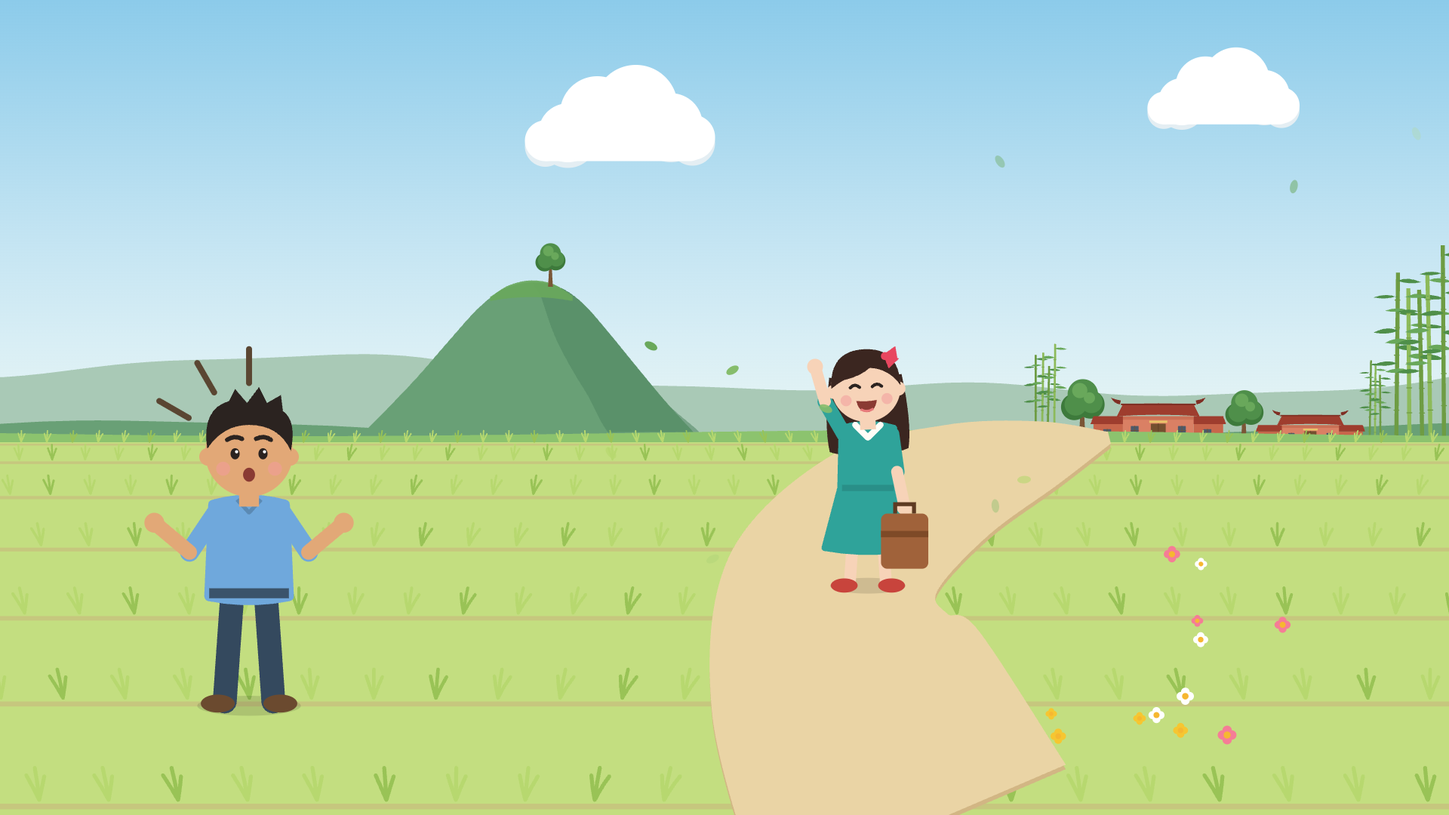
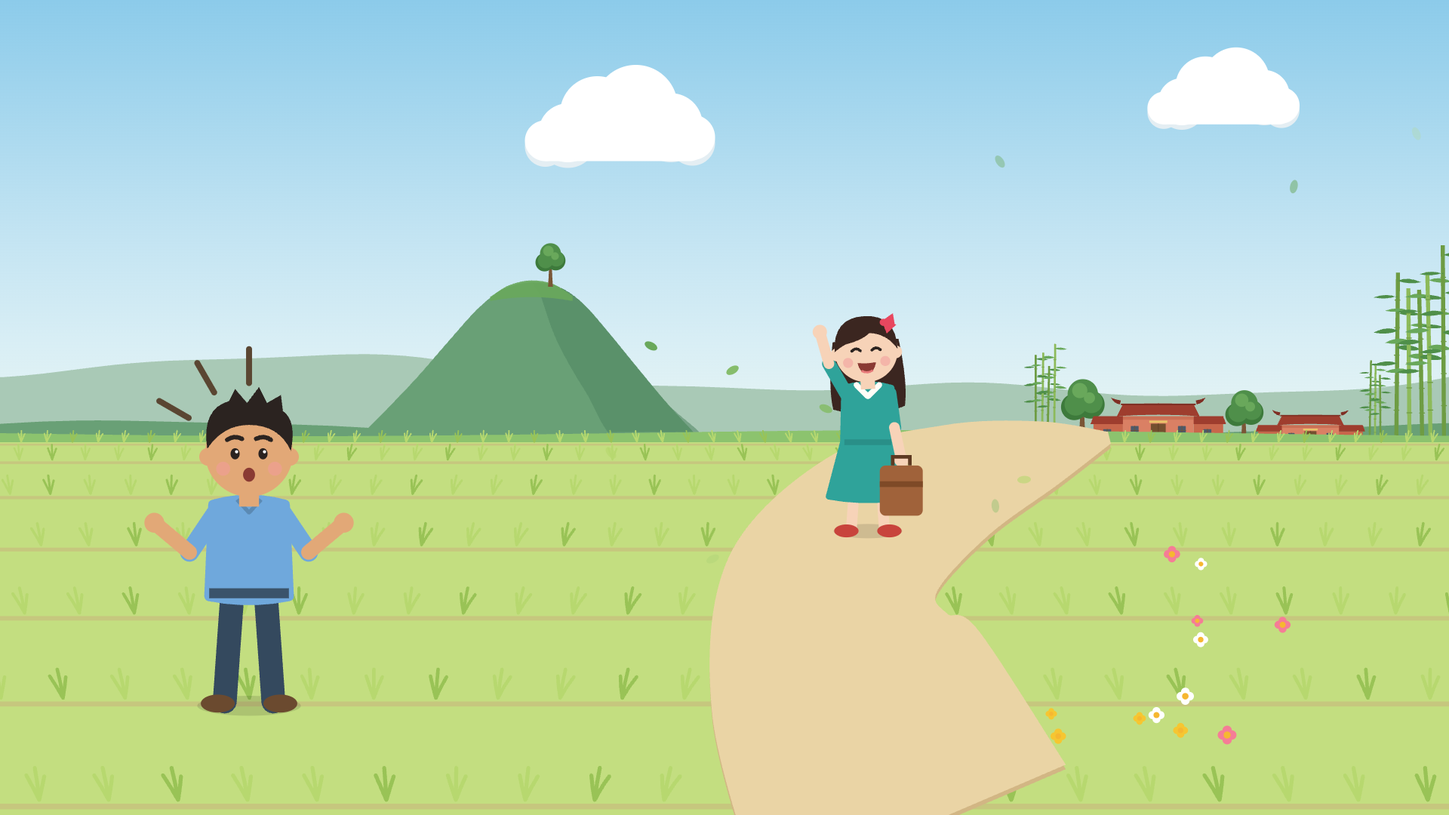
Break story lines after punctuation and keep words whole; raise Aqing in c2b

Changed region(s): [[0.5625, 0.3667, 0.6562, 0.7333]]

diff --git a/index.html b/index.html
@@ -105,7 +105,7 @@ body{overflow:hidden;touch-action:manipulation}
 <div id="bar"></div>
 <div id="black"></div>
 <noscript><div style="color:#FFF8EC;padding:24px;font-size:20px;line-height:1.8;position:relative;z-index:30;background:#1B1714"><h1>《讓生命乘著歌聲，綻放成一道彩虹》</h1><p>山腳下有一座小村莊，住著一位大家都叫他「黑狗兄」的男子。他熱心、愛笑，也愛唱歌，常和三位好友跑到山頂，對著山谷唱得忘了時間。</p><p>黑狗兄一直有個願望：「哪一天，我們要辦一場音樂會，讓整個村莊的人都來唱歌！」好友們笑著答應，四個人的聲音，就這樣帶著夢想飄下山。</p><h2>第一首〈山頂的黑狗兄〉四重唱</h2><p>這一天，黑狗兄沿著鄉間小路回家，忽然看見一個熟悉的身影。</p><p>那是多年不見的阿晴。她曾離開家鄉，到外地學音樂，如今提著行李，回到了這條從小走到大的路。</p><p>兩人並肩走過田野，聊起童年的往事。當阿晴聽見黑狗兄想辦音樂會，眼睛立刻亮了起來：「這麼好的事，怎麼可以少了我？」</p><h2>第二首〈鄉間小路〉合唱</h2><p>隔天，黑狗兄穿著一件黃襯衫，來到村口等阿晴。</p><p>阿晴一看便笑了：「這件衣服，你還留著呀？」</p><p>那是她離鄉前送給他的禮物。黑狗兄抓抓頭，害羞地說：「我一直想穿著它，唱歌給妳聽。」</p><p>朋友們聽見了，立刻敲起鼓來起鬨。黑狗兄紅著臉，跟著節奏踏步、擺動，阿晴也加入其中。兩人多年沒說出口的心意，都藏在這場熱鬧的鼓聲裡。</p><h2>第三首〈情人的黃襯衫〉非洲鼓＋擊鼓有氧</h2><p>有了阿晴的支持，黑狗兄終於決定把夢想付諸行動。</p><p>阿晴牽起他的手，說：「請跟我來，我知道一個好地方。」</p><p>她帶大家來到村裡的老學堂。這裡有寬敞的庭院，還有一棵能替人遮蔭的大樹，正適合練唱。</p><p>他們挨家挨戶邀請鄰居。起初，有人說自己唱不好，有人害羞得不敢進門；但聽著屋裡傳出的歌聲，大家漸漸走了進來，空蕩蕩的學堂也重新熱鬧起來。</p><h2>第四首〈請跟我來〉合唱</h2><p>學堂外有一片多年沒人照顧的玫瑰花圃。大家練唱之餘，也一起除草、澆水，想讓來看音樂會的人，一進門就看見花。</p><p>第一朵玫瑰綻放時，阿晴高興地喊來所有人。孩子們圍著花圃跳舞，大人們敲鼓、踏步，連平常最安靜的鄰居都跟著伸手、轉身。</p><p>黑狗兄望著笑得燦爛的阿晴，悄悄摘下一朵玫瑰，別在自己的黃襯衫上：「演出那天，我就戴著它上台。」</p><h2>第五首〈可愛的玫瑰花〉非洲鼓＋擊鼓有氧</h2><p>可是，音樂會前夕，一場大雨打亂了所有準備。庭院積了水，布置好的舞台也被風吹倒。</p><p>黑狗兄看著滿地狼藉，難過地說：「忙了這麼久，還是辦不成嗎？」</p><p>阿晴沒有回答，只先扶起一張倒下的椅子。接著，三位好友來了，鄰居也帶著工具來了。有人修舞台，有人清掃，有人替大家準備熱茶。</p><p>熟悉的歌聲再次響起。黑狗兄捲起袖子，走進人群，和大家一起把夢想重新扶了起來。</p><h2>第六首〈追夢人〉合唱</h2><p>音樂會當天，雨終於停了。</p><p>老學堂掛上彩帶，玫瑰花圃旁排滿椅子。村民帶著家人陸續入座，台上的每一個人，都能在台下找到熟悉的笑臉。</p><p>黑狗兄穿著黃襯衫，胸前別著那朵玫瑰。他站在阿晴身旁，小聲說：「以後每一場音樂會，妳都陪我，好嗎？」</p><p>阿晴笑著點頭。掌聲響起，大家一起唱出了這段日子裡，親手忙出來的幸福。</p><h2>第七首〈幸福進行曲〉合唱</h2><p>最後一首曲子開始前，一個孩子指著天空大喊：「彩虹！」</p><p>大家抬起頭，看見一道彩虹跨過山頂，正是黑狗兄和好友們最初唱歌的地方。</p><p>鼓聲響起，台上的人踏著節奏揮動雙手，台下的觀眾也站起來加入。黑狗兄牽著阿晴，和全村的人一起跳躍、歡笑。</p><p>從山頂的一個願望，到今天滿院子的歌聲，他們終於完成了那場音樂會。</p><p>而彩虹下，已經有人開始問：「明年，我們還要唱什麼歌？」</p><h2>第八首〈飛躍的彩虹〉非洲鼓＋擊鼓有氧</h2></div></noscript>
-<script id="data" type="application/json">{"pages":[{"id":"cover","k":"cover","img":"cover","alt":"彩虹跨過山頂，山腳下有紅磚三合院和稻田，音符從村莊飄向天空。","title":"《讓生命乘著歌聲，綻放成一道彩虹》","credits":["115年臺中市大人讀冊吧－銀向學習計畫之創齡無極限方案","《鼓動青春．樂齡飛揚》聲聲飛揚－動聲合唱課程","114–116 年朝陽科大USR計畫　北溝富麗 文化生態共榮村"]},{"id":"c1a","k":"story","img":"c1a","alt":"山腳下的小村莊；遠遠的山頂上，四個好友對著山谷唱歌。","lines":["山腳下有一座小村莊，住著一位大家都叫他","「黑狗兄」的男子。他熱心、愛笑，也愛唱歌，常","和三位好友跑到山頂，對著山谷唱得忘了時間。"],"text":"山腳下有一座小村莊，住著一位大家都叫他「黑狗兄」的男子。他熱心、愛笑，也愛唱歌，常和三位好友跑到山頂，對著山谷唱得忘了時間。","tag":"1／8〈山頂的黑狗兄〉","box":[112,703,1696,349]},{"id":"c1b","k":"story","img":"c1b","alt":"夕陽下，黑狗兄和三位好友站在山頂唱歌，音符飄向山下的村莊。","lines":["黑狗兄一直有個願望：「哪一天，我們要辦一場音","樂會，讓整個村莊的人都來唱歌！」好友們笑著答","應，四個人的聲音，就這樣帶著夢想飄下山。"],"text":"黑狗兄一直有個願望：「哪一天，我們要辦一場音樂會，讓整個村莊的人都來唱歌！」好友們笑著答應，四個人的聲音，就這樣帶著夢想飄下山。","tag":"1／8〈山頂的黑狗兄〉","box":[112,703,1696,349]},{"id":"s1","k":"song","img":"s1","alt":"黃昏的山頂，四個人一起唱歌，大大的音符往天空升起。","label":"第一首","song":"山頂的黑狗兄","form":"四重唱","tag":"1／8"},{"id":"c2a","k":"story","img":"c2a","alt":"黑狗兄走在稻田間的鄉間小路上，看見小路另一頭有個提著行李的身影。","lines":["這一天，黑狗兄沿著鄉間小路回","家，忽然看見一個熟悉的身影。"],"text":"這一天，黑狗兄沿著鄉間小路回家，忽然看見一個熟悉的身影。","tag":"2／8〈鄉間小路〉","box":[112,798,1696,254]},{"id":"c2b","k":"story","img":"c2b","alt":"阿晴提著行李站在鄉間小路上，笑著揮手。","lines":["那是多年不見的阿晴。她曾離開家鄉，到外地學音","樂，如今提著行李，回到了這條從小走到大的路。"],"text":"那是多年不見的阿晴。她曾離開家鄉，到外地學音樂，如今提著行李，回到了這條從小走到大的路。","tag":"2／8〈鄉間小路〉","box":[112,798,1696,254]},{"id":"c2c","k":"story","img":"c2c","alt":"黑狗兄替阿晴提著行李，兩人並肩走過田埂，阿晴眼睛發亮。","lines":["兩人並肩走過田野，聊起童年的往事。當","阿晴聽見黑狗兄想辦音樂會，眼睛立刻亮了","起來：「這麼好的事，怎麼可以少了我？」"],"text":"兩人並肩走過田野，聊起童年的往事。當阿晴聽見黑狗兄想辦音樂會，眼睛立刻亮了起來：「這麼好的事，怎麼可以少了我？」","tag":"2／8〈鄉間小路〉","box":[112,703,1696,349]},{"id":"s2","k":"song","img":"s2","alt":"夕陽下的鄉間小路穿過金黃稻田，村民走在路上，音符一路飄。","label":"第二首","song":"鄉間小路","form":"合唱","tag":"2／8"},{"id":"c3a","k":"story","img":"c3a","alt":"早晨的村口大榕樹下，穿著黃襯衫的黑狗兄在等人。","lines":["隔天，黑狗兄穿著一件黃襯衫，來到村口等阿晴。"],"text":"隔天，黑狗兄穿著一件黃襯衫，來到村口等阿晴。","tag":"3／8〈情人的黃襯衫〉","box":[112,893,1696,159]},{"id":"c3b","k":"story","img":"c3b","alt":"阿晴來到村口，指著黑狗兄的黃襯衫笑了。","lines":["阿晴一看便笑了：「這件衣服，你還留著呀？」"],"text":"阿晴一看便笑了：「這件衣服，你還留著呀？」","tag":"3／8〈情人的黃襯衫〉","box":[112,893,1696,159]},{"id":"c3c","k":"story","img":"c3c","alt":"黑狗兄害羞地抓著頭、臉紅了，愛心飄在兩人中間。","lines":["那是她離鄉前送給他的禮物。黑狗兄抓抓頭，害","羞地說：「我一直想穿著它，唱歌給妳聽。」"],"text":"那是她離鄉前送給他的禮物。黑狗兄抓抓頭，害羞地說：「我一直想穿著它，唱歌給妳聽。」","tag":"3／8〈情人的黃襯衫〉","box":[112,798,1696,254]},{"id":"c3d","k":"story","img":"c3d","alt":"三位好友敲著非洲鼓起鬨，黑狗兄和阿晴跟著節奏踏步擺動。","lines":["朋友們聽見了，立刻敲起鼓來起鬨。黑狗兄紅著","臉，跟著節奏踏步、擺動，阿晴也加入其中。兩人","多年沒說出口的心意，都藏在這場熱鬧的鼓聲裡。"],"text":"朋友們聽見了，立刻敲起鼓來起鬨。黑狗兄紅著臉，跟著節奏踏步、擺動，阿晴也加入其中。兩人多年沒說出口的心意，都藏在這場熱鬧的鼓聲裡。","tag":"3／8〈情人的黃襯衫〉","box":[112,703,1696,349]},{"id":"s3","k":"song","img":"s3","alt":"非洲鼓跟著節拍發出光圈，黑狗兄和阿晴在鼓聲中跳舞。","label":"第三首","song":"情人的黃襯衫","form":"非洲鼓＋擊鼓有氧","tag":"3／8"},{"id":"c4a","k":"story","img":"c4a","alt":"日出時，黑狗兄握拳下定決心，阿晴在旁邊拍手。","lines":["有了阿晴的支持，黑狗兄終於決定把夢想付諸行動。"],"text":"有了阿晴的支持，黑狗兄終於決定把夢想付諸行動。","tag":"4／8〈請跟我來〉","box":[112,893,1696,159]},{"id":"c4b","k":"story","img":"c4b","alt":"阿晴牽著黑狗兄的手往前走，三位好友跟在後面，遠方是老學堂。","lines":["阿晴牽起他的手，說：「請跟","我來，我知道一個好地方。」"],"text":"阿晴牽起他的手，說：「請跟我來，我知道一個好地方。」","tag":"4／8〈請跟我來〉","box":[112,798,1696,254]},{"id":"c4c","k":"story","img":"c4c","alt":"紅磚老學堂前有寬敞的庭院和一棵大榕樹，大家來到這裡。","lines":["她帶大家來到村裡的老學堂。這裡有寬敞的庭","院，還有一棵能替人遮蔭的大樹，正適合練唱。"],"text":"她帶大家來到村裡的老學堂。這裡有寬敞的庭院，還有一棵能替人遮蔭的大樹，正適合練唱。","tag":"4／8〈請跟我來〉","box":[112,798,1696,254]},{"id":"c4d","k":"story","img":"c4d","alt":"老學堂的門打開了，窗戶亮著燈，鄰居一個個走進來，音符從屋裡飄出。","lines":["他們挨家挨戶邀請鄰居。起初，有人說自己唱不好，","有人害羞得不敢進門；但聽著屋裡傳出的歌聲，大家","漸漸走了進來，空蕩蕩的學堂也重新熱鬧起來。"],"text":"他們挨家挨戶邀請鄰居。起初，有人說自己唱不好，有人害羞得不敢進門；但聽著屋裡傳出的歌聲，大家漸漸走了進來，空蕩蕩的學堂也重新熱鬧起來。","tag":"4／8〈請跟我來〉","box":[112,703,1696,349]},{"id":"s4","k":"song","img":"s4","alt":"黃昏的老學堂庭院裡，村民排成合唱團一起唱歌。","label":"第四首","song":"請跟我來","form":"合唱","tag":"4／8"},{"id":"c5a","k":"story","img":"c5a","alt":"學堂外荒廢的玫瑰花圃，大家一起除草、澆水。","lines":["學堂外有一片多年沒人照顧的玫瑰花圃。","大家練唱之餘，也一起除草、澆水，想讓","來看音樂會的人，一進門就看見花。"],"text":"學堂外有一片多年沒人照顧的玫瑰花圃。大家練唱之餘，也一起除草、澆水，想讓來看音樂會的人，一進門就看見花。","tag":"5／8〈可愛的玫瑰花〉","box":[112,703,1696,349]},{"id":"c5b","k":"story","img":"c5b","alt":"第一朵玫瑰開了，孩子們圍著花圃跳舞，大人們敲鼓踏步。","lines":["第一朵玫瑰綻放時，阿晴高興地喊來所有人。","孩子們圍著花圃跳舞，大人們敲鼓、踏步，連","平常最安靜的鄰居都跟著伸手、轉身。"],"text":"第一朵玫瑰綻放時，阿晴高興地喊來所有人。孩子們圍著花圃跳舞，大人們敲鼓、踏步，連平常最安靜的鄰居都跟著伸手、轉身。","tag":"5／8〈可愛的玫瑰花〉","box":[112,703,1696,349]},{"id":"c5c","k":"story","img":"c5c","alt":"黑狗兄把一朵玫瑰別在黃襯衫上，阿晴笑得很燦爛。","lines":["黑狗兄望著笑得燦爛的阿晴，悄悄摘","下一朵玫瑰，別在自己的黃襯衫上：","「演出那天，我就戴著它上台。」"],"text":"黑狗兄望著笑得燦爛的阿晴，悄悄摘下一朵玫瑰，別在自己的黃襯衫上：「演出那天，我就戴著它上台。」","tag":"5／8〈可愛的玫瑰花〉","box":[112,703,1696,349]},{"id":"s5","k":"song","img":"s5","alt":"盛開的玫瑰花圃，花瓣隨著鼓聲飛舞，大家一起跳舞。","label":"第五首","song":"可愛的玫瑰花","form":"非洲鼓＋擊鼓有氧","tag":"5／8"},{"id":"c6a","k":"story","img":"c6a","alt":"大雨的夜裡，庭院積水，舞台被風吹倒，椅子也倒了。","lines":["可是，音樂會前夕，一場大雨打亂了所有準","備。庭院積了水，布置好的舞台也被風吹倒。"],"text":"可是，音樂會前夕，一場大雨打亂了所有準備。庭院積了水，布置好的舞台也被風吹倒。","tag":"6／8〈追夢人〉","box":[112,798,1696,254]},{"id":"c6b","k":"story","img":"c6b","alt":"黑狗兄站在雨中，看著滿地狼藉，難過地低著頭。","lines":["黑狗兄看著滿地狼藉，難過地說：","「忙了這麼久，還是辦不成嗎？」"],"text":"黑狗兄看著滿地狼藉，難過地說：「忙了這麼久，還是辦不成嗎？」","tag":"6／8〈追夢人〉","box":[112,798,1696,254]},{"id":"c6c","k":"story","img":"c6c","alt":"阿晴扶起一張椅子，好友和鄰居帶著工具來幫忙，有人端來熱茶。","lines":["阿晴沒有回答，只先扶起一張倒下的椅子。接","著，三位好友來了，鄰居也帶著工具來了。有","人修舞台，有人清掃，有人替大家準備熱茶。"],"text":"阿晴沒有回答，只先扶起一張倒下的椅子。接著，三位好友來了，鄰居也帶著工具來了。有人修舞台，有人清掃，有人替大家準備熱茶。","tag":"6／8〈追夢人〉","box":[112,703,1696,349]},{"id":"c6d","k":"story","img":"c6d","alt":"雨快停了，大家一邊唱歌，一邊把舞台重新扶起來。","lines":["熟悉的歌聲再次響起。黑狗兄捲起袖子，走","進人群，和大家一起把夢想重新扶了起來。"],"text":"熟悉的歌聲再次響起。黑狗兄捲起袖子，走進人群，和大家一起把夢想重新扶了起來。","tag":"6／8〈追夢人〉","box":[112,798,1696,254]},{"id":"s6","k":"song","img":"s6","alt":"星空下重新搭好的舞台，大家仰望天空唱歌，流星劃過。","label":"第六首","song":"追夢人","form":"合唱","tag":"6／8"},{"id":"c7a","k":"story","img":"c7a","alt":"雨停了，藍天出太陽，水窪映著天空，玫瑰上掛著水珠。","lines":["音樂會當天，雨終於停了。"],"text":"音樂會當天，雨終於停了。","tag":"7／8〈幸福進行曲〉","box":[112,893,1696,159]},{"id":"c7b","k":"story","img":"c7b","alt":"老學堂掛上彩帶，玫瑰花圃旁排滿椅子，村民帶著家人入座。","lines":["老學堂掛上彩帶，玫瑰花圃旁排滿椅","子。村民帶著家人陸續入座，台上的每","一個人，都能在台下找到熟悉的笑臉。"],"text":"老學堂掛上彩帶，玫瑰花圃旁排滿椅子。村民帶著家人陸續入座，台上的每一個人，都能在台下找到熟悉的笑臉。","tag":"7／8〈幸福進行曲〉","box":[112,703,1696,349]},{"id":"c7c","k":"story","img":"c7c","alt":"台上，胸前別著玫瑰的黑狗兄站在阿晴身旁，小聲說話。","lines":["黑狗兄穿著黃襯衫，胸前別著那朵玫","瑰。他站在阿晴身旁，小聲說：「以後","每一場音樂會，妳都陪我，好嗎？」"],"text":"黑狗兄穿著黃襯衫，胸前別著那朵玫瑰。他站在阿晴身旁，小聲說：「以後每一場音樂會，妳都陪我，好嗎？」","tag":"7／8〈幸福進行曲〉","box":[112,703,1696,349]},{"id":"c7d","k":"story","img":"c7d","alt":"阿晴笑著點頭，台下的人鼓掌，彩紙飄落。","lines":["阿晴笑著點頭。掌聲響起，大家一起唱","出了這段日子裡，親手忙出來的幸福。"],"text":"阿晴笑著點頭。掌聲響起，大家一起唱出了這段日子裡，親手忙出來的幸福。","tag":"7／8〈幸福進行曲〉","box":[112,798,1696,254]},{"id":"s7","k":"song","img":"s7","alt":"掛滿彩帶的舞台上，大家一起唱歌，彩紙飛舞。","label":"第七首","song":"幸福進行曲","form":"合唱","tag":"7／8"},{"id":"c8a","k":"story","img":"c8a","alt":"庭院裡，一個孩子站在椅子上，指著天空大喊。","lines":["最後一首曲子開始前，一個孩","子指著天空大喊：「彩虹！」"],"text":"最後一首曲子開始前，一個孩子指著天空大喊：「彩虹！」","tag":"8／8〈飛躍的彩虹〉","box":[112,798,1696,254]},{"id":"c8b","k":"story","img":"c8b","alt":"一道彩虹跨過山頂，就是當初四個好友唱歌的那座山。","lines":["大家抬起頭，看見一道彩虹跨過山頂，","正是黑狗兄和好友們最初唱歌的地方。"],"text":"大家抬起頭，看見一道彩虹跨過山頂，正是黑狗兄和好友們最初唱歌的地方。","tag":"8／8〈飛躍的彩虹〉","box":[112,798,1696,254]},{"id":"c8c","k":"story","img":"c8c","alt":"鼓聲中，全村的人一起跳躍，黑狗兄牽著阿晴。","lines":["鼓聲響起，台上的人踏著節奏揮動雙手，","台下的觀眾也站起來加入。黑狗兄牽著","阿晴，和全村的人一起跳躍、歡笑。"],"text":"鼓聲響起，台上的人踏著節奏揮動雙手，台下的觀眾也站起來加入。黑狗兄牽著阿晴，和全村的人一起跳躍、歡笑。","tag":"8／8〈飛躍的彩虹〉","box":[112,703,1696,349]},{"id":"c8d","k":"story","img":"c8d","alt":"從山頂到滿院子的人，音符連成一條線，彩虹掛在天上。","lines":["從山頂的一個願望，到今天滿院子的","歌聲，他們終於完成了那場音樂會。"],"text":"從山頂的一個願望，到今天滿院子的歌聲，他們終於完成了那場音樂會。","tag":"8／8〈飛躍的彩虹〉","box":[112,798,1696,254]},{"id":"c8e","k":"story","img":"c8e","alt":"彩虹下，村民聊著天，有人問明年要唱什麼歌。","lines":["而彩虹下，已經有人開始問：","「明年，我們還要唱什麼歌？」"],"text":"而彩虹下，已經有人開始問：「明年，我們還要唱什麼歌？」","tag":"8／8〈飛躍的彩虹〉","box":[112,798,1696,254]},{"id":"s8","k":"song","img":"s8","alt":"彩虹跨過山頂，大家敲著鼓一起跳起來。","label":"第八首","song":"飛躍的彩虹","form":"非洲鼓＋擊鼓有氧","tag":"8／8"},{"id":"end","k":"end","img":"end","alt":"黃昏的彩虹跨過山頂和村莊，音符和光點飄在空中。","title":"《讓生命乘著歌聲，綻放成一道彩虹》","credits":["115年臺中市大人讀冊吧－銀向學習計畫之創齡無極限方案","《鼓動青春．樂齡飛揚》聲聲飛揚－動聲合唱課程","114–116 年朝陽科大USR計畫　北溝富麗 文化生態共榮村"]}]}</script>
+<script id="data" type="application/json">{"pages":[{"id":"cover","k":"cover","img":"cover","alt":"彩虹跨過山頂，山腳下有紅磚三合院和稻田，音符從村莊飄向天空。","title":"《讓生命乘著歌聲，綻放成一道彩虹》","credits":["115年臺中市大人讀冊吧－銀向學習計畫之創齡無極限方案","《鼓動青春．樂齡飛揚》聲聲飛揚－動聲合唱課程","114–116 年朝陽科大USR計畫　北溝富麗 文化生態共榮村"]},{"id":"c1a","k":"story","img":"c1a","alt":"山腳下的小村莊；遠遠的山頂上，四個好友對著山谷唱歌。","lines":["山腳下有一座小村莊，住著一位大家都叫他","「黑狗兄」的男子。他熱心、愛笑，也愛唱歌，","常和三位好友跑到山頂，對著山谷唱得忘了時間。"],"text":"山腳下有一座小村莊，住著一位大家都叫他「黑狗兄」的男子。他熱心、愛笑，也愛唱歌，常和三位好友跑到山頂，對著山谷唱得忘了時間。","tag":"1／8〈山頂的黑狗兄〉","box":[112,703,1696,349]},{"id":"c1b","k":"story","img":"c1b","alt":"夕陽下，黑狗兄和三位好友站在山頂唱歌，音符飄向山下的村莊。","lines":["黑狗兄一直有個願望：「哪一天，我們要辦一場","音樂會，讓整個村莊的人都來唱歌！」好友們笑著","答應，四個人的聲音，就這樣帶著夢想飄下山。"],"text":"黑狗兄一直有個願望：「哪一天，我們要辦一場音樂會，讓整個村莊的人都來唱歌！」好友們笑著答應，四個人的聲音，就這樣帶著夢想飄下山。","tag":"1／8〈山頂的黑狗兄〉","box":[112,703,1696,349]},{"id":"s1","k":"song","img":"s1","alt":"黃昏的山頂，四個人一起唱歌，大大的音符往天空升起。","label":"第一首","song":"山頂的黑狗兄","form":"四重唱","tag":"1／8"},{"id":"c2a","k":"story","img":"c2a","alt":"黑狗兄走在稻田間的鄉間小路上，看見小路另一頭有個提著行李的身影。","lines":["這一天，黑狗兄沿著鄉間小路回家，","忽然看見一個熟悉的身影。"],"text":"這一天，黑狗兄沿著鄉間小路回家，忽然看見一個熟悉的身影。","tag":"2／8〈鄉間小路〉","box":[112,798,1696,254]},{"id":"c2b","k":"story","img":"c2b","alt":"阿晴提著行李站在鄉間小路上，笑著揮手。","lines":["那是多年不見的阿晴。她曾離開家鄉，","到外地學音樂，如今提著行李，","回到了這條從小走到大的路。"],"text":"那是多年不見的阿晴。她曾離開家鄉，到外地學音樂，如今提著行李，回到了這條從小走到大的路。","tag":"2／8〈鄉間小路〉","box":[112,703,1696,349]},{"id":"c2c","k":"story","img":"c2c","alt":"黑狗兄替阿晴提著行李，兩人並肩走過田埂，阿晴眼睛發亮。","lines":["兩人並肩走過田野，聊起童年的往事。","當阿晴聽見黑狗兄想辦音樂會，眼睛立刻亮了起來：","「這麼好的事，怎麼可以少了我？」"],"text":"兩人並肩走過田野，聊起童年的往事。當阿晴聽見黑狗兄想辦音樂會，眼睛立刻亮了起來：「這麼好的事，怎麼可以少了我？」","tag":"2／8〈鄉間小路〉","box":[112,703,1696,349]},{"id":"s2","k":"song","img":"s2","alt":"夕陽下的鄉間小路穿過金黃稻田，村民走在路上，音符一路飄。","label":"第二首","song":"鄉間小路","form":"合唱","tag":"2／8"},{"id":"c3a","k":"story","img":"c3a","alt":"早晨的村口大榕樹下，穿著黃襯衫的黑狗兄在等人。","lines":["隔天，黑狗兄穿著一件黃襯衫，來到村口等阿晴。"],"text":"隔天，黑狗兄穿著一件黃襯衫，來到村口等阿晴。","tag":"3／8〈情人的黃襯衫〉","box":[112,893,1696,159]},{"id":"c3b","k":"story","img":"c3b","alt":"阿晴來到村口，指著黑狗兄的黃襯衫笑了。","lines":["阿晴一看便笑了：「這件衣服，你還留著呀？」"],"text":"阿晴一看便笑了：「這件衣服，你還留著呀？」","tag":"3／8〈情人的黃襯衫〉","box":[112,893,1696,159]},{"id":"c3c","k":"story","img":"c3c","alt":"黑狗兄害羞地抓著頭、臉紅了，愛心飄在兩人中間。","lines":["那是她離鄉前送給他的禮物。黑狗兄抓抓頭，","害羞地說：「我一直想穿著它，唱歌給妳聽。」"],"text":"那是她離鄉前送給他的禮物。黑狗兄抓抓頭，害羞地說：「我一直想穿著它，唱歌給妳聽。」","tag":"3／8〈情人的黃襯衫〉","box":[112,798,1696,254]},{"id":"c3d","k":"story","img":"c3d","alt":"三位好友敲著非洲鼓起鬨，黑狗兄和阿晴跟著節奏踏步擺動。","lines":["朋友們聽見了，立刻敲起鼓來起鬨。黑狗兄紅著臉，","跟著節奏踏步、擺動，阿晴也加入其中。兩人多年沒","說出口的心意，都藏在這場熱鬧的鼓聲裡。"],"text":"朋友們聽見了，立刻敲起鼓來起鬨。黑狗兄紅著臉，跟著節奏踏步、擺動，阿晴也加入其中。兩人多年沒說出口的心意，都藏在這場熱鬧的鼓聲裡。","tag":"3／8〈情人的黃襯衫〉","box":[112,703,1696,349]},{"id":"s3","k":"song","img":"s3","alt":"非洲鼓跟著節拍發出光圈，黑狗兄和阿晴在鼓聲中跳舞。","label":"第三首","song":"情人的黃襯衫","form":"非洲鼓＋擊鼓有氧","tag":"3／8"},{"id":"c4a","k":"story","img":"c4a","alt":"日出時，黑狗兄握拳下定決心，阿晴在旁邊拍手。","lines":["有了阿晴的支持，黑狗兄終於決定把夢想付諸行動。"],"text":"有了阿晴的支持，黑狗兄終於決定把夢想付諸行動。","tag":"4／8〈請跟我來〉","box":[112,893,1696,159]},{"id":"c4b","k":"story","img":"c4b","alt":"阿晴牽著黑狗兄的手往前走，三位好友跟在後面，遠方是老學堂。","lines":["阿晴牽起他的手，說：「請跟我來，","我知道一個好地方。」"],"text":"阿晴牽起他的手，說：「請跟我來，我知道一個好地方。」","tag":"4／8〈請跟我來〉","box":[112,798,1696,254]},{"id":"c4c","k":"story","img":"c4c","alt":"紅磚老學堂前有寬敞的庭院和一棵大榕樹，大家來到這裡。","lines":["她帶大家來到村裡的老學堂。這裡有寬敞的庭院，","還有一棵能替人遮蔭的大樹，正適合練唱。"],"text":"她帶大家來到村裡的老學堂。這裡有寬敞的庭院，還有一棵能替人遮蔭的大樹，正適合練唱。","tag":"4／8〈請跟我來〉","box":[112,798,1696,254]},{"id":"c4d","k":"story","img":"c4d","alt":"老學堂的門打開了，窗戶亮著燈，鄰居一個個走進來，音符從屋裡飄出。","lines":["他們挨家挨戶邀請鄰居。起初，有人說自己唱不好，","有人害羞得不敢進門；但聽著屋裡傳出的歌聲，","大家漸漸走了進來，空蕩蕩的學堂也重新熱鬧起來。"],"text":"他們挨家挨戶邀請鄰居。起初，有人說自己唱不好，有人害羞得不敢進門；但聽著屋裡傳出的歌聲，大家漸漸走了進來，空蕩蕩的學堂也重新熱鬧起來。","tag":"4／8〈請跟我來〉","box":[112,703,1696,349]},{"id":"s4","k":"song","img":"s4","alt":"黃昏的老學堂庭院裡，村民排成合唱團一起唱歌。","label":"第四首","song":"請跟我來","form":"合唱","tag":"4／8"},{"id":"c5a","k":"story","img":"c5a","alt":"學堂外荒廢的玫瑰花圃，大家一起除草、澆水。","lines":["學堂外有一片多年沒人照顧的玫瑰花圃。","大家練唱之餘，也一起除草、澆水，","想讓來看音樂會的人，一進門就看見花。"],"text":"學堂外有一片多年沒人照顧的玫瑰花圃。大家練唱之餘，也一起除草、澆水，想讓來看音樂會的人，一進門就看見花。","tag":"5／8〈可愛的玫瑰花〉","box":[112,703,1696,349]},{"id":"c5b","k":"story","img":"c5b","alt":"第一朵玫瑰開了，孩子們圍著花圃跳舞，大人們敲鼓踏步。","lines":["第一朵玫瑰綻放時，阿晴高興地喊來所有人。","孩子們圍著花圃跳舞，大人們敲鼓、踏步，","連平常最安靜的鄰居都跟著伸手、轉身。"],"text":"第一朵玫瑰綻放時，阿晴高興地喊來所有人。孩子們圍著花圃跳舞，大人們敲鼓、踏步，連平常最安靜的鄰居都跟著伸手、轉身。","tag":"5／8〈可愛的玫瑰花〉","box":[112,703,1696,349]},{"id":"c5c","k":"story","img":"c5c","alt":"黑狗兄把一朵玫瑰別在黃襯衫上，阿晴笑得很燦爛。","lines":["黑狗兄望著笑得燦爛的阿晴，悄悄摘下一朵玫瑰，","別在自己的黃襯衫上：「演出那天，","我就戴著它上台。」"],"text":"黑狗兄望著笑得燦爛的阿晴，悄悄摘下一朵玫瑰，別在自己的黃襯衫上：「演出那天，我就戴著它上台。」","tag":"5／8〈可愛的玫瑰花〉","box":[112,703,1696,349]},{"id":"s5","k":"song","img":"s5","alt":"盛開的玫瑰花圃，花瓣隨著鼓聲飛舞，大家一起跳舞。","label":"第五首","song":"可愛的玫瑰花","form":"非洲鼓＋擊鼓有氧","tag":"5／8"},{"id":"c6a","k":"story","img":"c6a","alt":"大雨的夜裡，庭院積水，舞台被風吹倒，椅子也倒了。","lines":["可是，音樂會前夕，一場大雨打亂了所有準備。","庭院積了水，布置好的舞台也被風吹倒。"],"text":"可是，音樂會前夕，一場大雨打亂了所有準備。庭院積了水，布置好的舞台也被風吹倒。","tag":"6／8〈追夢人〉","box":[112,798,1696,254]},{"id":"c6b","k":"story","img":"c6b","alt":"黑狗兄站在雨中，看著滿地狼藉，難過地低著頭。","lines":["黑狗兄看著滿地狼藉，難過地說：「忙了這麼久，","還是辦不成嗎？」"],"text":"黑狗兄看著滿地狼藉，難過地說：「忙了這麼久，還是辦不成嗎？」","tag":"6／8〈追夢人〉","box":[112,798,1696,254]},{"id":"c6c","k":"story","img":"c6c","alt":"阿晴扶起一張椅子，好友和鄰居帶著工具來幫忙，有人端來熱茶。","lines":["阿晴沒有回答，只先扶起一張倒下的椅子。接著，","三位好友來了，鄰居也帶著工具來了。有人修舞台，","有人清掃，有人替大家準備熱茶。"],"text":"阿晴沒有回答，只先扶起一張倒下的椅子。接著，三位好友來了，鄰居也帶著工具來了。有人修舞台，有人清掃，有人替大家準備熱茶。","tag":"6／8〈追夢人〉","box":[112,703,1696,349]},{"id":"c6d","k":"story","img":"c6d","alt":"雨快停了，大家一邊唱歌，一邊把舞台重新扶起來。","lines":["熟悉的歌聲再次響起。黑狗兄捲起袖子，走進人群，","和大家一起把夢想重新扶了起來。"],"text":"熟悉的歌聲再次響起。黑狗兄捲起袖子，走進人群，和大家一起把夢想重新扶了起來。","tag":"6／8〈追夢人〉","box":[112,798,1696,254]},{"id":"s6","k":"song","img":"s6","alt":"星空下重新搭好的舞台，大家仰望天空唱歌，流星劃過。","label":"第六首","song":"追夢人","form":"合唱","tag":"6／8"},{"id":"c7a","k":"story","img":"c7a","alt":"雨停了，藍天出太陽，水窪映著天空，玫瑰上掛著水珠。","lines":["音樂會當天，雨終於停了。"],"text":"音樂會當天，雨終於停了。","tag":"7／8〈幸福進行曲〉","box":[112,893,1696,159]},{"id":"c7b","k":"story","img":"c7b","alt":"老學堂掛上彩帶，玫瑰花圃旁排滿椅子，村民帶著家人入座。","lines":["老學堂掛上彩帶，玫瑰花圃旁排滿椅子。","村民帶著家人陸續入座，台上的每一個人，","都能在台下找到熟悉的笑臉。"],"text":"老學堂掛上彩帶，玫瑰花圃旁排滿椅子。村民帶著家人陸續入座，台上的每一個人，都能在台下找到熟悉的笑臉。","tag":"7／8〈幸福進行曲〉","box":[112,703,1696,349]},{"id":"c7c","k":"story","img":"c7c","alt":"台上，胸前別著玫瑰的黑狗兄站在阿晴身旁，小聲說話。","lines":["黑狗兄穿著黃襯衫，胸前別著那朵玫瑰。","他站在阿晴身旁，小聲說：「以後每一場音樂會，","妳都陪我，好嗎？」"],"text":"黑狗兄穿著黃襯衫，胸前別著那朵玫瑰。他站在阿晴身旁，小聲說：「以後每一場音樂會，妳都陪我，好嗎？」","tag":"7／8〈幸福進行曲〉","box":[112,703,1696,349]},{"id":"c7d","k":"story","img":"c7d","alt":"阿晴笑著點頭，台下的人鼓掌，彩紙飄落。","lines":["阿晴笑著點頭。掌聲響起，","大家一起唱出了這段日子裡，親手忙出來的幸福。"],"text":"阿晴笑著點頭。掌聲響起，大家一起唱出了這段日子裡，親手忙出來的幸福。","tag":"7／8〈幸福進行曲〉","box":[112,798,1696,254]},{"id":"s7","k":"song","img":"s7","alt":"掛滿彩帶的舞台上，大家一起唱歌，彩紙飛舞。","label":"第七首","song":"幸福進行曲","form":"合唱","tag":"7／8"},{"id":"c8a","k":"story","img":"c8a","alt":"庭院裡，一個孩子站在椅子上，指著天空大喊。","lines":["最後一首曲子開始前，","一個孩子指著天空大喊：「彩虹！」"],"text":"最後一首曲子開始前，一個孩子指著天空大喊：「彩虹！」","tag":"8／8〈飛躍的彩虹〉","box":[112,798,1696,254]},{"id":"c8b","k":"story","img":"c8b","alt":"一道彩虹跨過山頂，就是當初四個好友唱歌的那座山。","lines":["大家抬起頭，看見一道彩虹跨過山頂，","正是黑狗兄和好友們最初唱歌的地方。"],"text":"大家抬起頭，看見一道彩虹跨過山頂，正是黑狗兄和好友們最初唱歌的地方。","tag":"8／8〈飛躍的彩虹〉","box":[112,798,1696,254]},{"id":"c8c","k":"story","img":"c8c","alt":"鼓聲中，全村的人一起跳躍，黑狗兄牽著阿晴。","lines":["鼓聲響起，台上的人踏著節奏揮動雙手，","台下的觀眾也站起來加入。黑狗兄牽著阿晴，","和全村的人一起跳躍、歡笑。"],"text":"鼓聲響起，台上的人踏著節奏揮動雙手，台下的觀眾也站起來加入。黑狗兄牽著阿晴，和全村的人一起跳躍、歡笑。","tag":"8／8〈飛躍的彩虹〉","box":[112,703,1696,349]},{"id":"c8d","k":"story","img":"c8d","alt":"從山頂到滿院子的人，音符連成一條線，彩虹掛在天上。","lines":["從山頂的一個願望，到今天滿院子的歌聲，","他們終於完成了那場音樂會。"],"text":"從山頂的一個願望，到今天滿院子的歌聲，他們終於完成了那場音樂會。","tag":"8／8〈飛躍的彩虹〉","box":[112,798,1696,254]},{"id":"c8e","k":"story","img":"c8e","alt":"彩虹下，村民聊著天，有人問明年要唱什麼歌。","lines":["而彩虹下，已經有人開始問：「明年，","我們還要唱什麼歌？」"],"text":"而彩虹下，已經有人開始問：「明年，我們還要唱什麼歌？」","tag":"8／8〈飛躍的彩虹〉","box":[112,798,1696,254]},{"id":"s8","k":"song","img":"s8","alt":"彩虹跨過山頂，大家敲著鼓一起跳起來。","label":"第八首","song":"飛躍的彩虹","form":"非洲鼓＋擊鼓有氧","tag":"8／8"},{"id":"end","k":"end","img":"end","alt":"黃昏的彩虹跨過山頂和村莊，音符和光點飄在空中。","title":"《讓生命乘著歌聲，綻放成一道彩虹》","credits":["115年臺中市大人讀冊吧－銀向學習計畫之創齡無極限方案","《鼓動青春．樂齡飛揚》聲聲飛揚－動聲合唱課程","114–116 年朝陽科大USR計畫　北溝富麗 文化生態共榮村"]}]}</script>
 <script>
 (function(){
   'use strict';

diff --git a/art/scenes/ch2.js b/art/scenes/ch2.js
@@ -66,7 +66,7 @@
     R.road(ROAD_B, 16, 440),
     R.flowerDots(9, 12, 1300, 1700, 700, 1000, { size: 1.3 }),
     // 阿晴：右手提行李，左手揮
-    R.person('aqing', { x: 1150, y: 772, s: 1.1, pose: 'stand', suitcase: true, mouth: 'laugh',
+    R.person('aqing', { x: 1150, y: 700, s: 1.0, pose: 'stand', suitcase: true, mouth: 'laugh',   // 行李要在 3 行文字卡（y 703 起）上方
       angles: { aL: [-150, -14 - 26 * R.wave(t, 2)], aR: [8, 4], tilt: -3 + 2 * R.wave(t, 2) } }),
     // 黑狗兄驚訝的半身（下半身在文字卡後面）
     R.person('heigou', { x: 330, y: 930, s: 1.32, pose: 'stand', shirt: 'blue', mouth: 'o',

diff --git a/src/layout.py b/src/layout.py
@@ -54,8 +54,21 @@ def font_path(bold=False):
     return "/System/Library/Fonts/PingFang.ttc"
 
 
-# 不可拆開的詞（人名等）
-KEEP = ["黑狗兄", "阿晴"]
+# 不可拆開的詞：人名與這份劇本裡的常用詞（沒有分詞套件，所以列出來；長詞先比對）
+KEEP = sorted(set("""
+黑狗兄 阿晴 音樂會 學音樂 音樂 黃襯衫 襯衫 玫瑰花圃 玫瑰花 玫瑰 老學堂 學堂 好友們 好友 小村莊 村莊 村口 全村 鄰居 舞台 椅子
+彩虹 山頂 山谷 山腳下 願望 夢想 歌聲 鼓聲 節奏 心意 熱茶 工具 行李 家鄉 童年 往事 田野 鄉間小路 小路 庭院 大樹 花圃 澆水 除草
+掌聲 觀眾 笑臉 幸福 日子 禮物 眼睛 孩子們 孩子 大人們 大人 村民 家人 台上 台下 前夕 大雨 準備 狼藉 袖子 人群 彩帶 入座 演出 起鬨
+擺動 踏步 跳舞 轉身 伸手 練唱 遮蔭 進門 唱歌 答應 聲音 離開 外地 從小 熟悉 身影 多年 不見 大家 一起 起來 進來 已經 開始 最後 一首
+曲子 天空 指著 抬起頭 跨過 最初 地方 終於 完成 明年 還要 什麼 男子 熱心 愛笑 愛唱歌 時間 一直 哪一天 我們 整個 笑著 四個人 這樣
+帶著 飄下山 這一天 回家 忽然 看見 一個 那是 如今 提著 回到 這條 並肩 聊起 聽見 立刻 這麼 怎麼 可以 隔天 穿著 一件 等阿晴 一看 這件
+衣服 你還 留著 送給 抓抓頭 害羞 一直想 穿著它 朋友們 紅著臉 加入 其中 兩人 說出口 藏在 熱鬧 支持 終於 決定 付諸行動 牽起 請跟我來
+知道 好地方 寬敞 一棵 正適合 挨家挨戶 邀請 起初 自己 唱不好 害羞得 但聽著 屋裡 傳出 漸漸 走了 空蕩蕩 重新 多年沒人 照顧 練唱之餘
+一進門 第一朵 綻放 高興 所有人 圍著 平常 最安靜 跟著 望著 燦爛 悄悄 摘下 一朵 自己的 上台 可是 打亂了 積了水 布置好 被風 吹倒
+看著 滿地 難過 這麼久 辦不成 沒有 回答 扶起 一張 倒下的 接著 帶著工具 修舞台 清掃 準備熱茶 熟悉的 再次 響起 捲起袖子 走進 重新扶了起來
+當天 終於停了 掛上 排滿 陸續 每一個人 找到 別著 那朵 身旁 小聲 以後 每一場 陪我 好嗎 點頭 唱出了 這段 親手 忙出來 一個孩子 大喊
+抬起頭 一道 正是 最初唱歌 揮動 雙手 站起來 牽著 跳躍 歡笑 滿院子 那場 有人 問
+""".split()), key=len, reverse=True)
 
 
 def units(text):
@@ -100,18 +113,51 @@ def _greedy(us, width_px, measure):
     return lines
 
 
+PUNCT_END = set("，。、；：！？」』）…")
+
+
 def wrap(text, width_px, measure, balance=True):
-    """中文斷行：人名不拆、標點不放錯位置；balance=True 時在行數不變下讓各行長度接近（避免最後一行只剩幾個字）。"""
+    """中文斷行：人名、常用詞不拆，標點不放錯位置。
+    balance=True 時在最少行數下用動態規劃挑換行點：優先在逗號、句號等標點之後換行（每行是一個完整的語句），
+    其次各行長度接近，並避免最後一行只剩幾個字。"""
     us = units(text)
     lines = _greedy(us, width_px, measure)
     if not balance or len(lines) < 2:
         return lines
-    n = len(lines)
-    lo, hi = width_px * 0.5, width_px
-    for _ in range(18):
-        mid = (lo + hi) / 2
-        if len(_greedy(us, mid, measure)) <= n:
-            hi = mid
-        else:
-            lo = mid
-    return _greedy(us, hi, measure)
+    n, m = len(lines), len(us)
+    cache = {}
+
+    def W(i, j):
+        if (i, j) not in cache:
+            cache[(i, j)] = measure("".join(us[i:j]))
+        return cache[(i, j)]
+    INF = float("inf")
+    dp = [[INF] * (m + 1) for _ in range(n + 1)]
+    pv = [[None] * (m + 1) for _ in range(n + 1)]
+    dp[0][0] = 0.0
+    for k in range(1, n + 1):
+        for j in range(1, m + 1):
+            for i in range(j - 1, -1, -1):
+                w = W(i, j)
+                if w > width_px:
+                    break
+                if dp[k - 1][i] == INF:
+                    continue
+                c = dp[k - 1][i]
+                if j < m:
+                    c += 0 if us[j - 1][-1] in PUNCT_END else 400     # 不在標點後換行
+                    c += ((width_px - w) / width_px) ** 2 * 200        # 各行長度接近
+                    if w < width_px * 0.35:
+                        c += 300                                       # 中間行太短
+                elif w < width_px * 0.3:
+                    c += 150                                           # 最後一行太短
+                if c < dp[k][j]:
+                    dp[k][j], pv[k][j] = c, i
+    if dp[n][m] == INF:
+        return lines
+    out, j = [], m
+    for k in range(n, 0, -1):
+        i = pv[k][j]
+        out.append("".join(us[i:j]))
+        j = i
+    return out[::-1]
